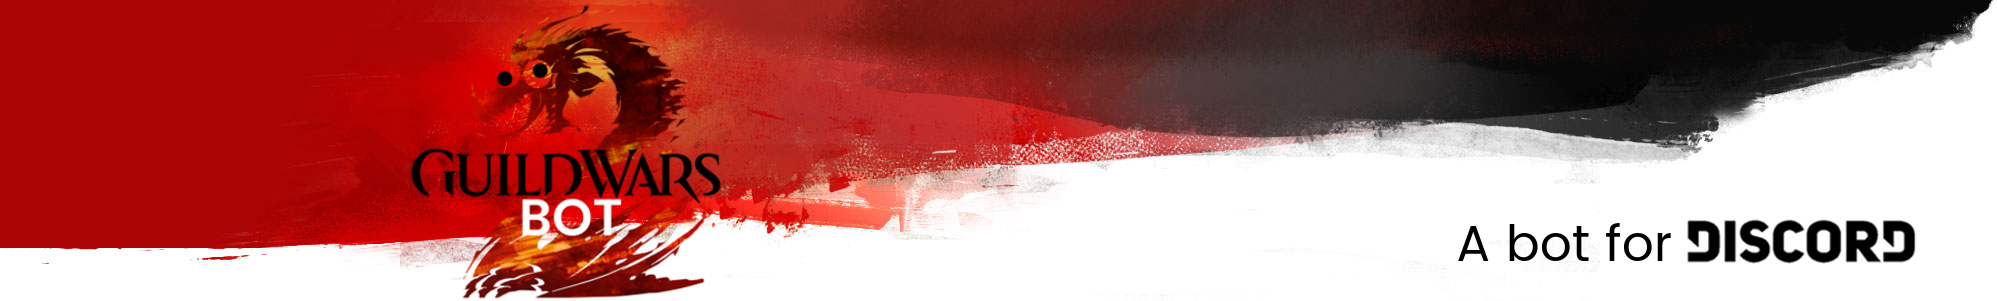
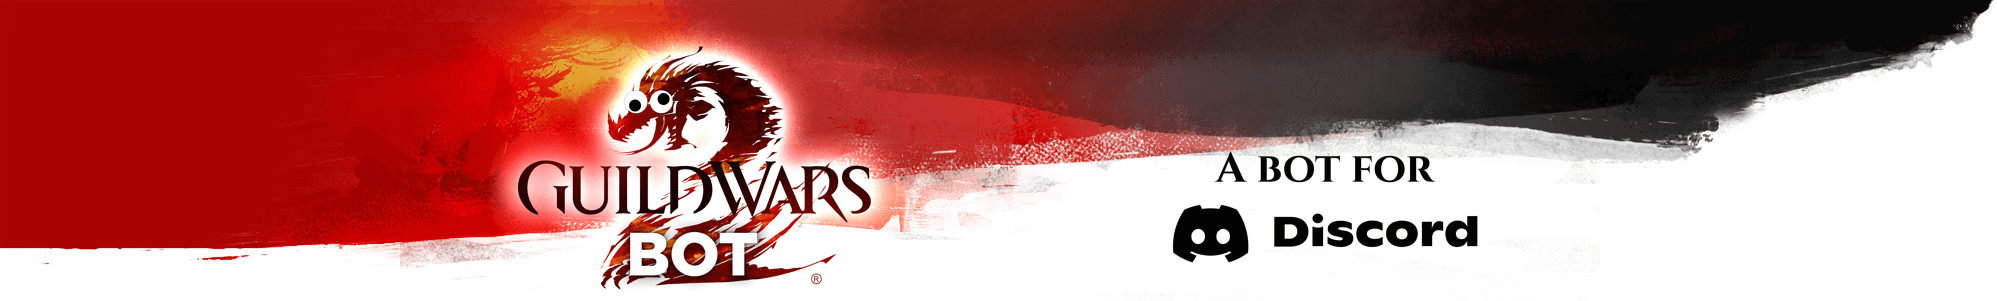
Speed, compatability, and appearance optimisations

diff --git a/index.html b/index.html
@@ -31,8 +31,9 @@
 <body>
   <header>
     <picture>
-      <source media="(min-width: 1045px)" srcset="/static/img/banner.jpg">
-      <img src="/static/img/banner--mobile.jpg" height="301" alt="GW2Bot Logo">
+      <source media="(min-width: 1045px)" srcset="/static/img/banner.png">
+      <source media="(min-width: 801px)" srcset="/static/img/banner--tablet.png">
+      <img src="/static/img/banner--mobile.png" height="301" alt="GW2Bot Logo">
     </picture>
     <div class="page-width page-padding">
       <span class="sr-only">GW2Bot - A Discord Bot for Guild Wars 2</span>
@@ -48,25 +49,29 @@
     <hr>
 
     <div class="page-width page-padding">
-      <span class="h2">Keep GW2Bot Running</span>
+      <span class="h2">Contribute to GW2Bot</span>
 
-      <p>GW2Bot will remain free to use, and runs on kind donations and volunteer contributions!</p>
+      <p>GW2Bot will remain free to use and continues to run with kind donations and volunteer contributions.<br>If you enjoy using GW2Bot, please consider donating to fund future development!</p>
 
-      <div class="button-container">
-        <a id="patreon" class="button button--large button--patreon" href="https://www.patreon.com/bePatron?u=9811418" target="_blank">
-          <img src="/static/img/patreon.svg" alt="Patreon Icon">Become a Patron
-        </a>
+      <div class="flexbox">
+        <div class="flexbox__item">
+          <a id="patreon" class="button button--large button--patreon" href="https://www.patreon.com/bePatron?u=9811418" target="_blank">
+            <img src="/static/img/patreon.svg" alt="Patreon Icon">Become a Patron
+          </a>
+        </div>
 
-        <form id="paypal" class="psuedo-button" action="https://www.paypal.com/cgi-bin/webscr" method="post" target="_blank">
-          <input type="hidden" name="cmd" value="_s-xclick">
-          <input type="hidden" name="hosted_button_id" value="96N5SP5FYTTGJ">
+        <div class="flexbox__item">
+          <form id="paypal" action="https://www.paypal.com/cgi-bin/webscr" method="post" target="_blank">
+            <input type="hidden" name="cmd" value="_s-xclick">
+            <input type="hidden" name="hosted_button_id" value="96N5SP5FYTTGJ">
 
-          <button class='button button--large button--paypal' name='submit' type='submit'>
-            <img src="/static/img/paypal.svg" alt="PayPal Icon">Donate with PayPal
-          </button>
+            <button class='button button--large button--paypal' name='submit' type='submit'>
+              <img src="/static/img/paypal.svg" alt="PayPal Icon">Donate with PayPal
+            </button>
 
-          <img class="sr-only" src="https://www.paypalobjects.com/en_GB/i/scr/pixel.gif" aria-hidden="true">
-        </form>
+            <img class="sr-only" src="https://www.paypalobjects.com/en_GB/i/scr/pixel.gif" aria-hidden="true">
+          </form>
+        </div>
       </div>
     </div>
   </div>

diff --git a/src/assets/scss/components/_buttons.scss b/src/assets/scss/components/_buttons.scss
@@ -1,22 +1,12 @@
 @use 'sass:color';
 /*---------------------------------------------------------------------------*\
-    Button Container
-\*---------------------------------------------------------------------------*/
-.button-container {
-  padding: $gutter-rem $gutter-px ($gutter-rem * .5) ($gutter-px * .5);
-  text-align: center;
-  & > .button, & > .psuedo-button {
-    margin: 0 0 ($gutter-rem * .5) ($gutter-px * .5);
-  }
-}
-
-/*---------------------------------------------------------------------------*\
     Buttons Global
 \*---------------------------------------------------------------------------*/
 button {// Taken from Normalise.css
   margin: 0;
   font-family: inherit;
   font-size: 100%;
+  color: inherit;
   overflow: visible;
   text-transform: none;
   -webkit-appearance: button;
@@ -42,7 +32,6 @@ button {// Taken from Normalise.css
   text-align: center;
   white-space: nowrap;
   color: $white;
-  cursor: hand;
   cursor: pointer;
   font-size: $p-font-rem;
   line-height: $p-line-rem;
@@ -64,22 +53,18 @@ button {// Taken from Normalise.css
     pointer-events: none;
   }
 }
-.psuedo-button {
-  display: inline-block;
-  vertical-align: top;
-}
 
 /*---------------------------------------------------------------------------*\
     Button Sizes
 \*---------------------------------------------------------------------------*/
 // Tiny Button
-.button.button--tiny {  padding: 2px 5px;
+/*.button.button--tiny {  padding: 2px 5px;
   &:active {            padding: 3px 5px 1px 5px;}
-}
+}*/
 // Small Button
-.button.button--small { padding: 4px 10px;
+/*.button.button--small { padding: 4px 10px;
   &:active {            padding: 5px 10px 3px 10px;}
-}
+}*/
 // Large Button
 .button.button--large { padding: 12px 24px;
   &:active {            padding: 13px 24px 11px 24px;}
@@ -98,13 +83,6 @@ button {// Taken from Normalise.css
   img {
     width: $h4-line-rem;
     height: $h4-line-rem;
-  }
-}
-
-.button.one-whole {
-  &, &:active, {
-    padding-left: 0;
-    padding-right: 0;
   }
 }
 

diff --git a/src/components/Commands.vue b/src/components/Commands.vue
@@ -9,7 +9,7 @@
     </div>
     <div class="page-width page-padding">
       <div class="flexbox">
-        <div class="commands-column">
+        <div class="flexbox__item commands-column">
           <ul class="commands-list">
 
             <cmd v-for="command in commandsMainOne" :key="command.id" :command="command"/>
@@ -17,7 +17,7 @@
           </ul>
         </div>
 
-        <div class="commands-column">
+        <div class="flexbox__item commands-column">
           <ul class="commands-list">
 
             <cmd v-for="command in commandsMainTwo" :key="command.id" :command="command"/>
@@ -29,14 +29,14 @@
       <h2 class="h3">Notifiers</h2>
       <hr>
       <div class="flexbox">
-        <div class="commands-column">
+        <div class="flexbox__item commands-column">
           <ul class="commands-list">
 
             <cmd v-for="command in commandsNotifiersOne" :key="command.id" :command="command"/>
 
           </ul>
         </div>
-        <div class="commands-column">
+        <div class="flexbox__item commands-column">
           <ul class="commands-list">
 
             <cmd v-for="command in commandsNotifiersTwo" :key="command.id" :command="command"/>
@@ -48,14 +48,14 @@
       <h3>Meta & Stats</h3>
       <hr>
       <div class="flexbox">
-        <div class="commands-column">
+        <div class="flexbox__item commands-column">
           <ul class="commands-list">
 
             <cmd v-for="command in commandsMetaOne" :key="command.id" :command="command"/>
 
           </ul>
         </div>
-        <div class="commands-column">
+        <div class="flexbox__item commands-column">
           <ul class="commands-list">
 
             <cmd v-for="command in commandsMetaTwo" :key="command.id" :command="command"/>

diff --git a/src/assets/scss/base/_typography.scss b/src/assets/scss/base/_typography.scss
@@ -1,14 +1,6 @@
 /*---------------------------------------------------------------------------*\
     Typography
 \*---------------------------------------------------------------------------*/
-html {
-  @extend %body-font-family;
-  font-size: 100%;
-  line-height: $p-line-rem;
-}
-body {
-  text-align: center;
-}
 a {
   // Remove the gray background on active links in IE 10.
   background-color: transparent;
@@ -92,16 +84,17 @@ small, .small-text {
 ul, ol {
   margin: 0;
   padding: 0 0 0 $gutter-px;
+  text-align: left;
   list-style-position: outside;
   li {
     counter-increment: listCounter;
     & ~ li {
-      margin: $baseline-rem 0 0 0;
+      margin: ($baseline-rem * .5) 0 0 0;
     }
   }
-  ul li, ol li {
+  /*ul li, ol li {
     counter-increment: listCounter2;
-  }
+  }*/
 }
 li {
   width: 100%;

diff --git a/src/assets/scss/main.scss b/src/assets/scss/main.scss
@@ -9,9 +9,12 @@
 // 2. Set the global `box-sizing` state to `border-box`.
 // 3. Prevent adjustments of font size after orientation changes in iOS.
 html {
+  @extend %body-font-family;
   min-height: 100%; /* [1] */
   box-sizing: border-box; /* [2] */
   -webkit-text-size-adjust: 100%; /* [3] */
+  font-size: 100%;
+  line-height: $p-line-rem;
 }
 *, *:before, *:after {
   box-sizing: inherit; /* [2] */
@@ -20,6 +23,7 @@ body {
   position: relative;
   margin: 0;
   padding: 0;
+  text-align: center;
   overflow-x: hidden;
 }
 main {
@@ -45,6 +49,9 @@ main {
 
 .patreon {
   padding-top: $baseline-rem;
+  .flexbox {
+    padding: $baseline-rem 0;
+  }
 }
 
 .sr-only {
@@ -61,7 +68,6 @@ main {
 }
 
 a, button {
-  cursor: hand;
   cursor: pointer;
 }
 

diff --git a/src/assets/scss/components/_flexbox.scss b/src/assets/scss/components/_flexbox.scss
@@ -6,7 +6,9 @@
   justify-content: center;
   flex-flow: row wrap;
   margin-left: (-$gutter-px);
-  & > * {
-    padding-left: $gutter-px;
-  }
+}
+.flexbox__item {
+  display: inline-block;
+  margin: 0;
+  padding-left: $gutter-px;
 }

diff --git a/src/assets/scss/pages/_commands.scss b/src/assets/scss/pages/_commands.scss
@@ -10,6 +10,7 @@
 .commands-list {
   padding: 0;
   list-style: none;
+  text-align: center;
 }
 .commands-list__item {
   padding: ($baseline-px * .5);
